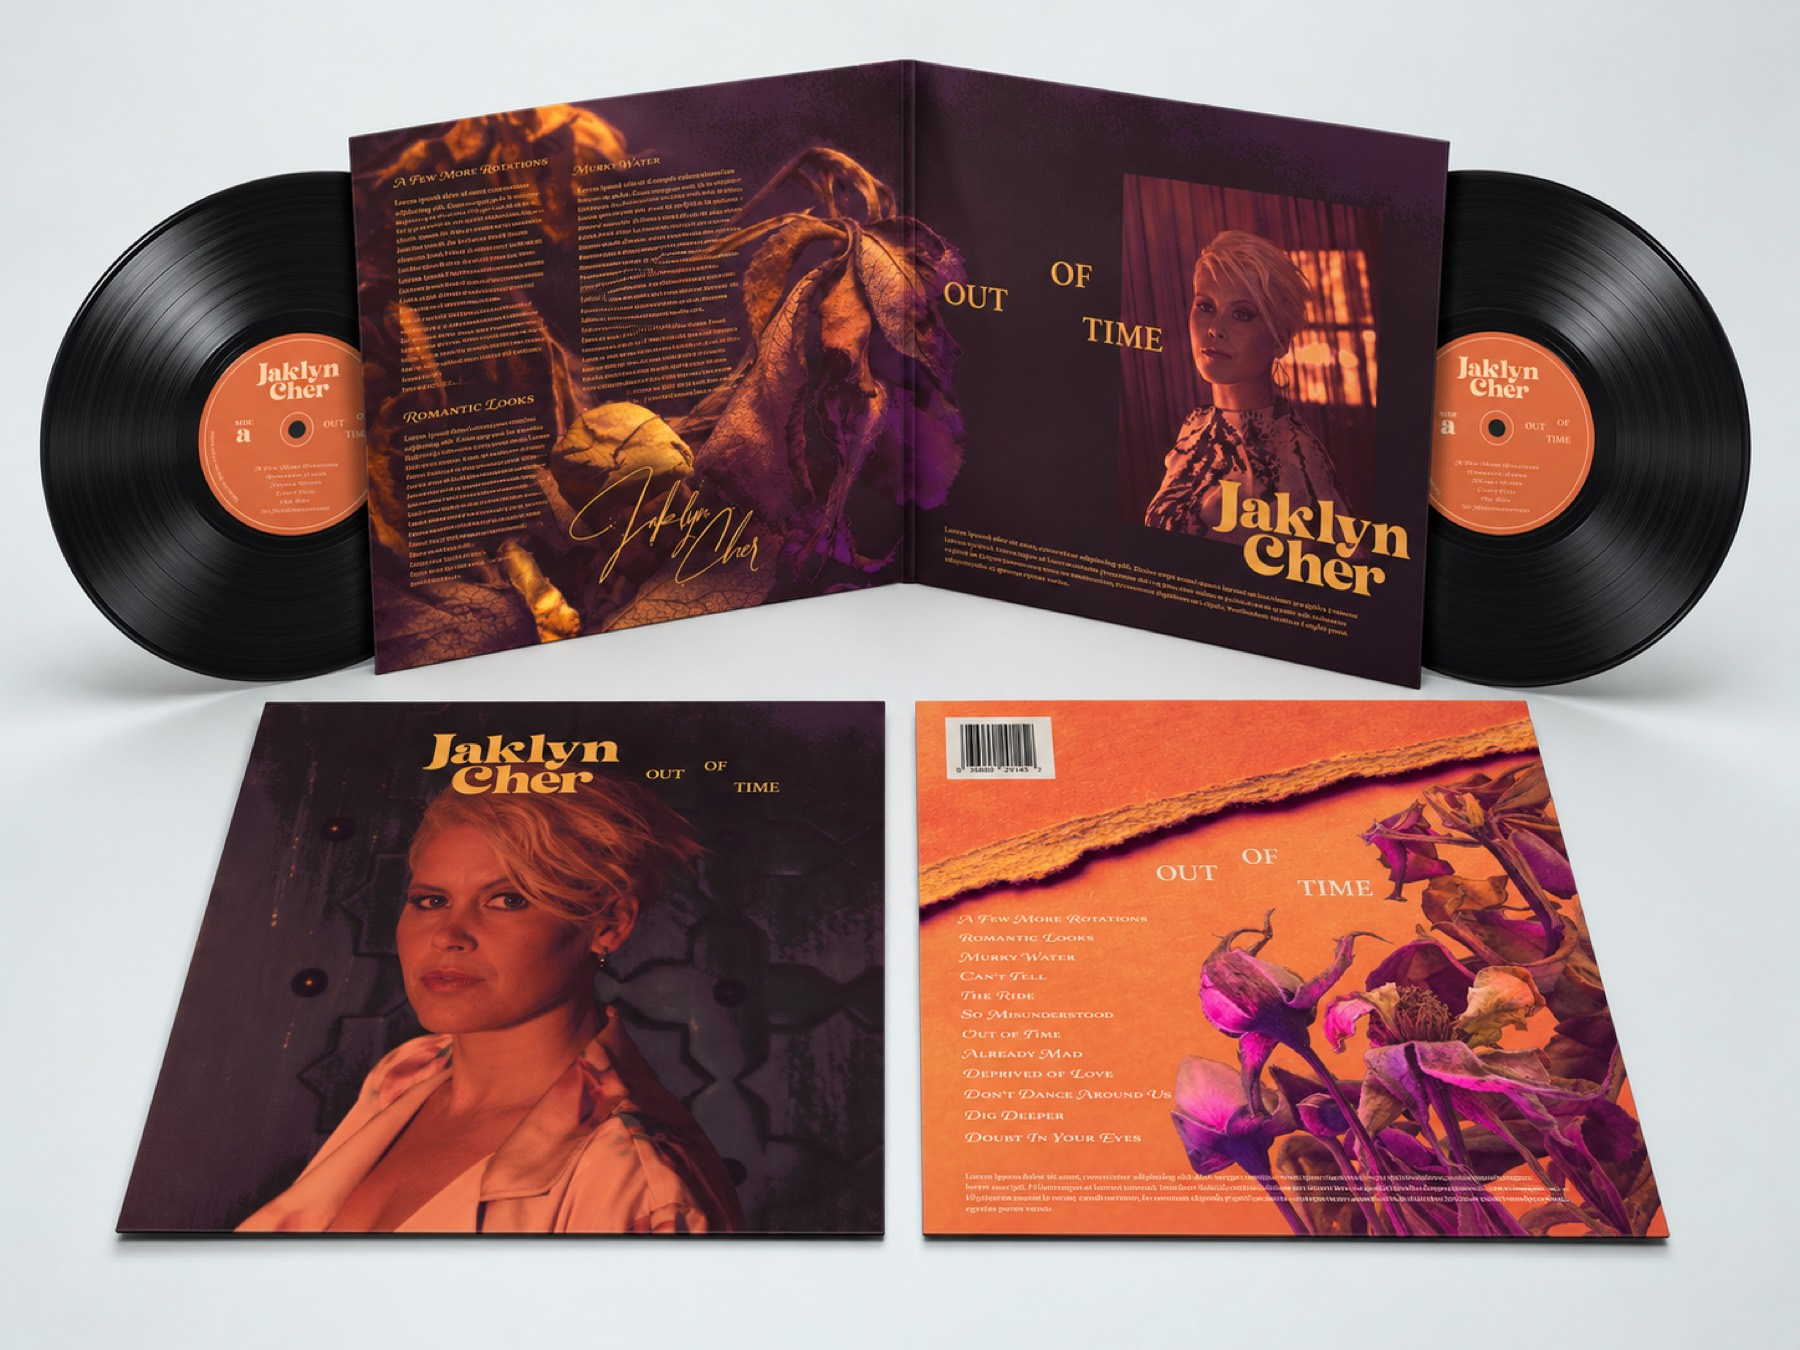
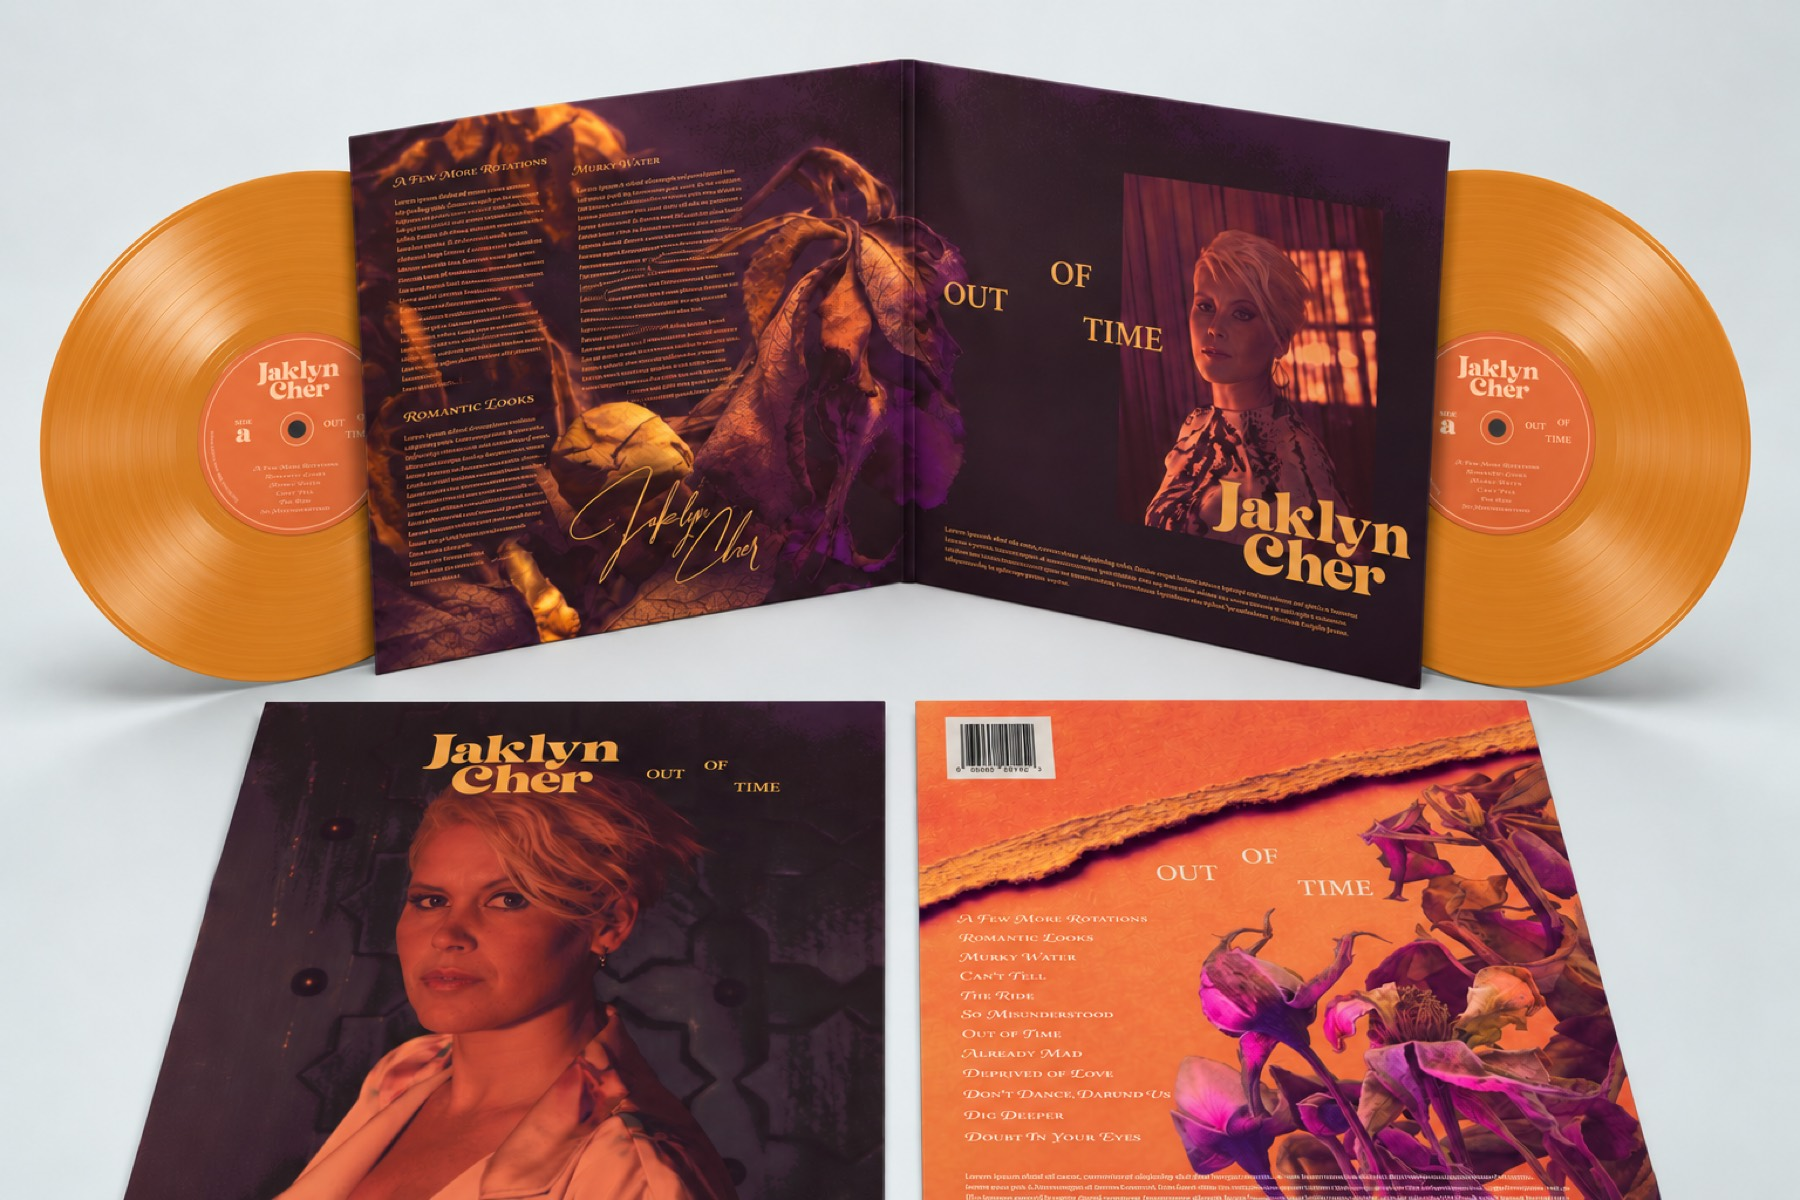
Jaklyn: swap the lead album frame for the amber pressing mockup
New gatefold render replaces the black vinyl version. Wider frame,
3:2 rather than 4:3, so the --r and the width and height attributes
move with it. The amber pressings now agree with the two lifestyle
shots underneath.

diff --git a/Jaklyn/index.html b/Jaklyn/index.html
@@ -381,7 +381,7 @@ img{display:block;max-width:100%}
     <p>Multiple treatments and directions for the Out of Time album artwork.</p>
   </div>
     <div class="jrow">
-      <figure style="--r:1.3333" data-n="01 / 5" data-set="Album Artwork"><img src="photo/album-01-t.jpg" data-full="photo/album-01-f.jpg" width="1100" height="825" loading="lazy" decoding="async" alt="Gatefold spread open, both records out, front and back sleeve below"></figure>
+      <figure style="--r:1.5007" data-n="01 / 5" data-set="Album Artwork"><img src="photo/album-01-t.jpg" data-full="photo/album-01-f.jpg" width="1100" height="733" loading="lazy" decoding="async" alt="Gatefold open with both amber pressings out, front sleeve and track list below"></figure>
     </div>
     <div class="jrow">
       <figure style="--r:0.8000" data-n="02 / 5" data-set="Album Artwork"><img src="photo/album-02-t.jpg" data-full="photo/album-02-f.jpg" width="880" height="1100" loading="lazy" decoding="async" alt="Sleeve propped on a wood sideboard with an orange record alongside"></figure>
